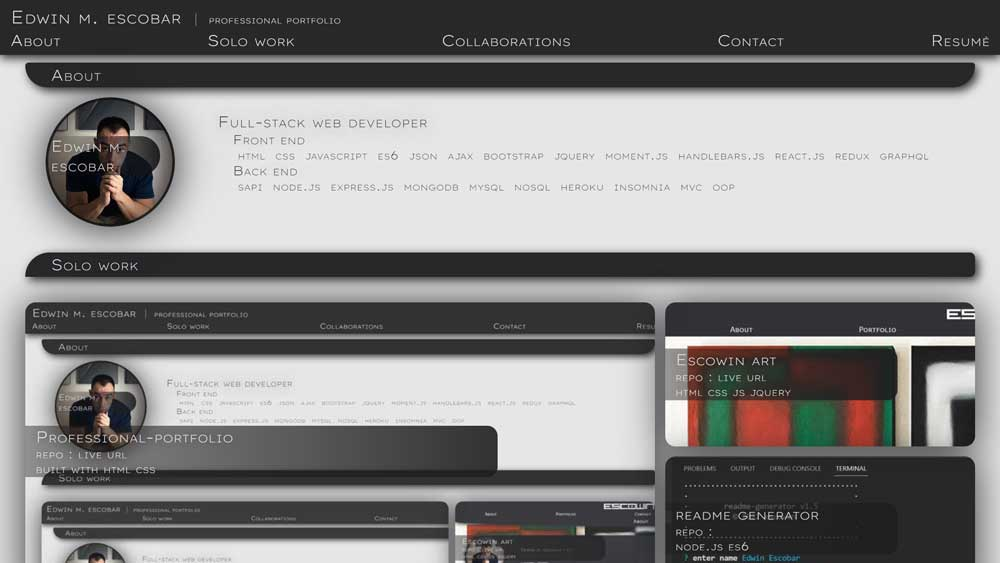
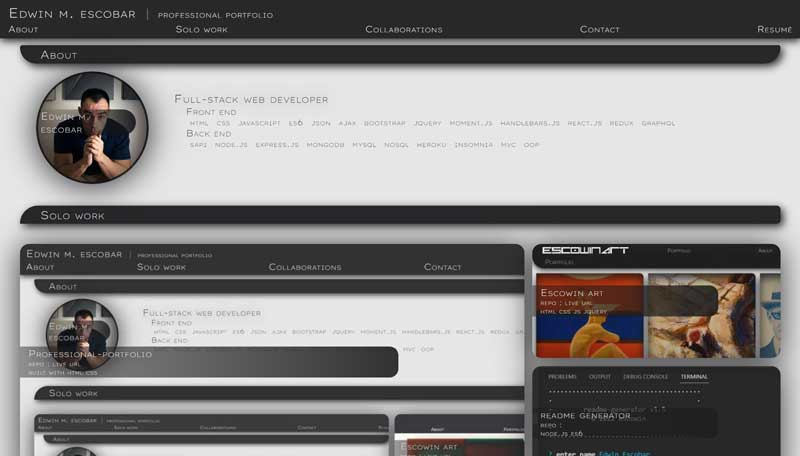
modified escowinart.jpg, adjusted .highlight background-size

diff --git a/assets/css/style.css b/assets/css/style.css
@@ -37,7 +37,7 @@ body::-webkit-scrollbar {
 }
 
 #escowinart {
-  background-image: url('../images/app-escowinart.jpg');
+  background-image: url('../images/large/escowinart.jpg');
 }
 
 #readme-generator {
@@ -250,6 +250,7 @@ header {
 .highlight {
   grid-column: span 2;
   grid-row: span 2;
+  background-size: cover;
 }
 
 .highlight .project-text {
